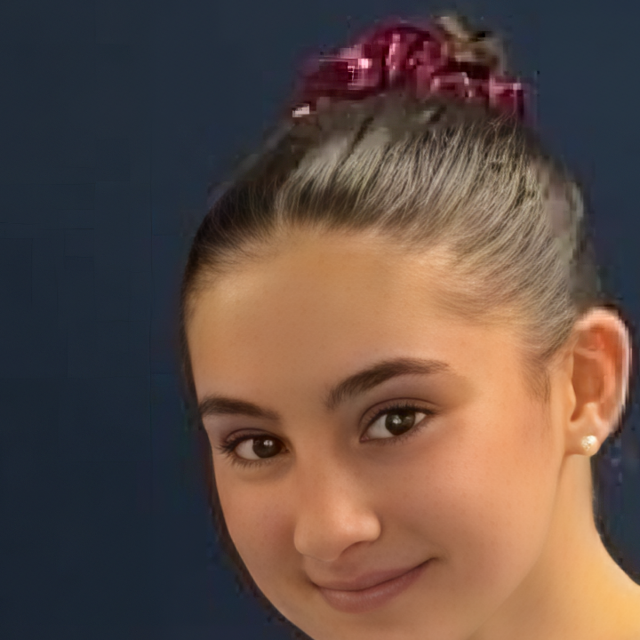
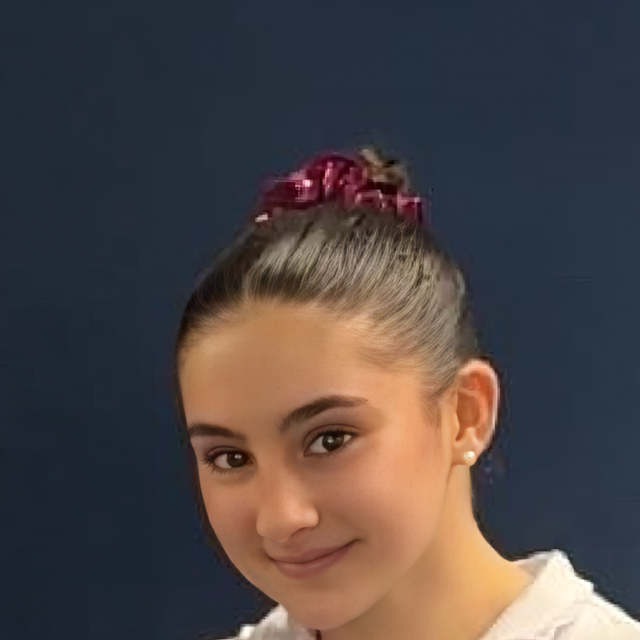
Fix Ronnie photo framing (head-and-shoulders); remove skill tags from Max's card

diff --git a/about.html b/about.html
@@ -139,13 +139,6 @@
       <div class="member-name">Max Kothari</div>
       <div class="member-title">Student at Phillips Exeter Academy · Soccer Player</div>
       <p class="member-bio">Analyst focused on market research, competitive analysis, and product strategy. Student at Phillips Exeter Academy and a soccer player.</p>
-      <div class="member-skills">
-        <span class="skill">Market Research</span>
-        <span class="skill">Competitive Analysis</span>
-        <span class="skill">Data Analysis</span>
-        <span class="skill">Product Strategy</span>
-        <span class="skill">Soccer Player</span>
-      </div>
     </div>
   </div>
 
